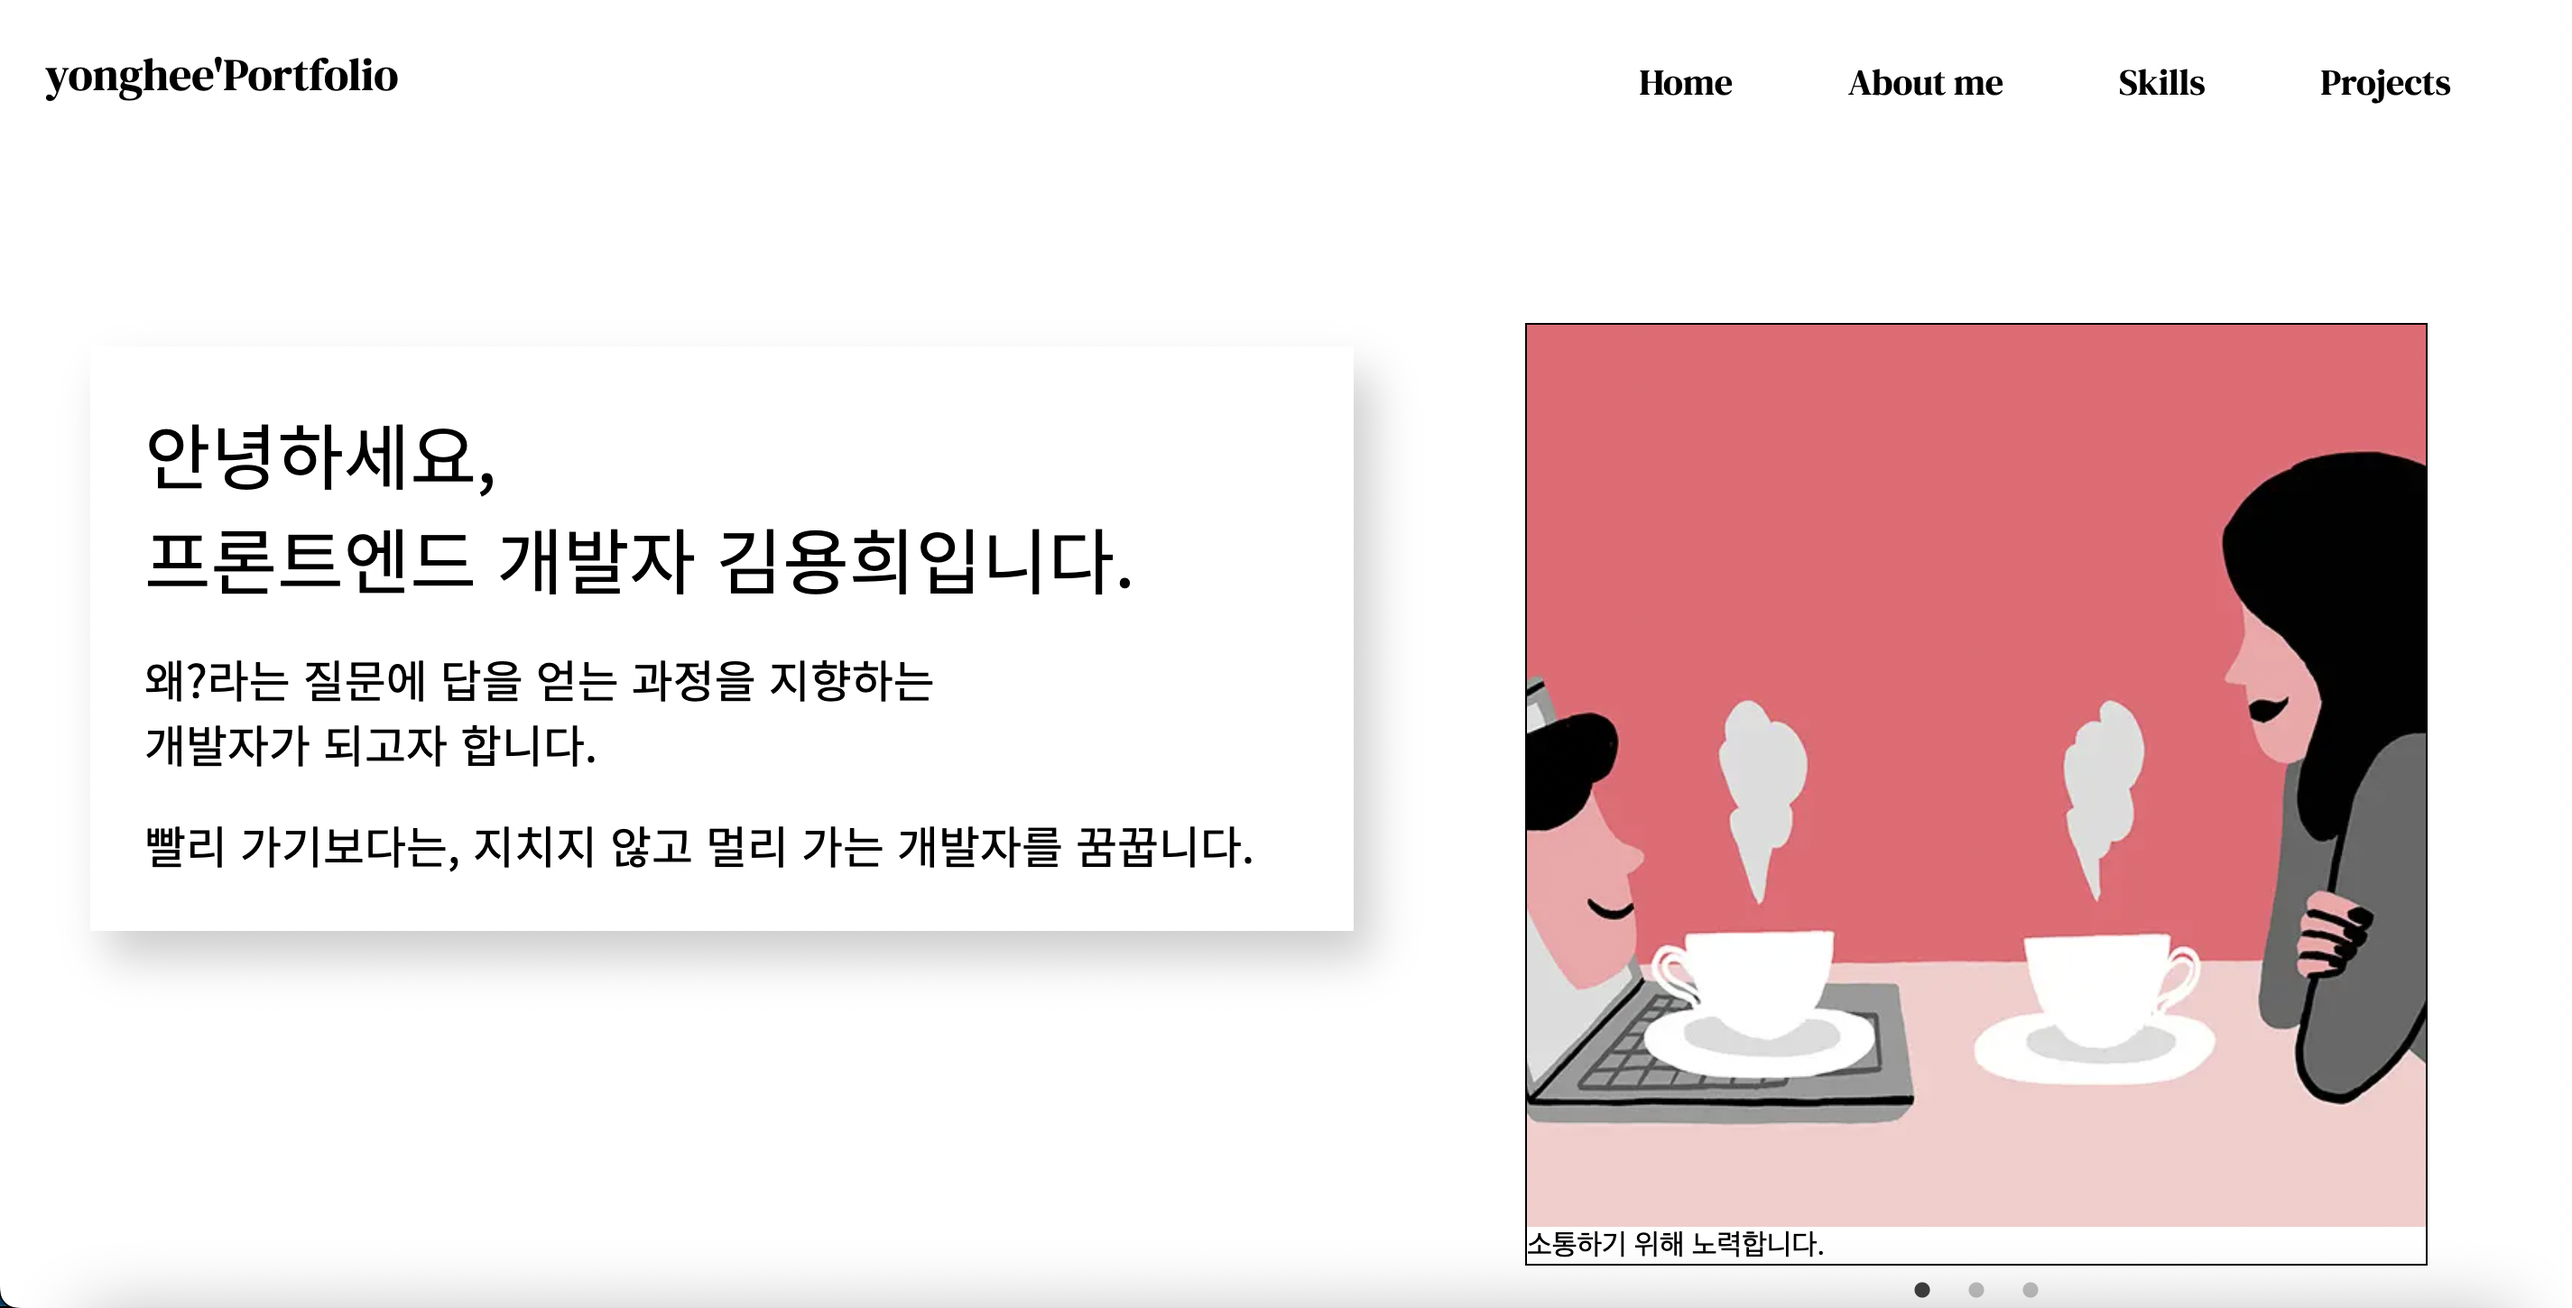
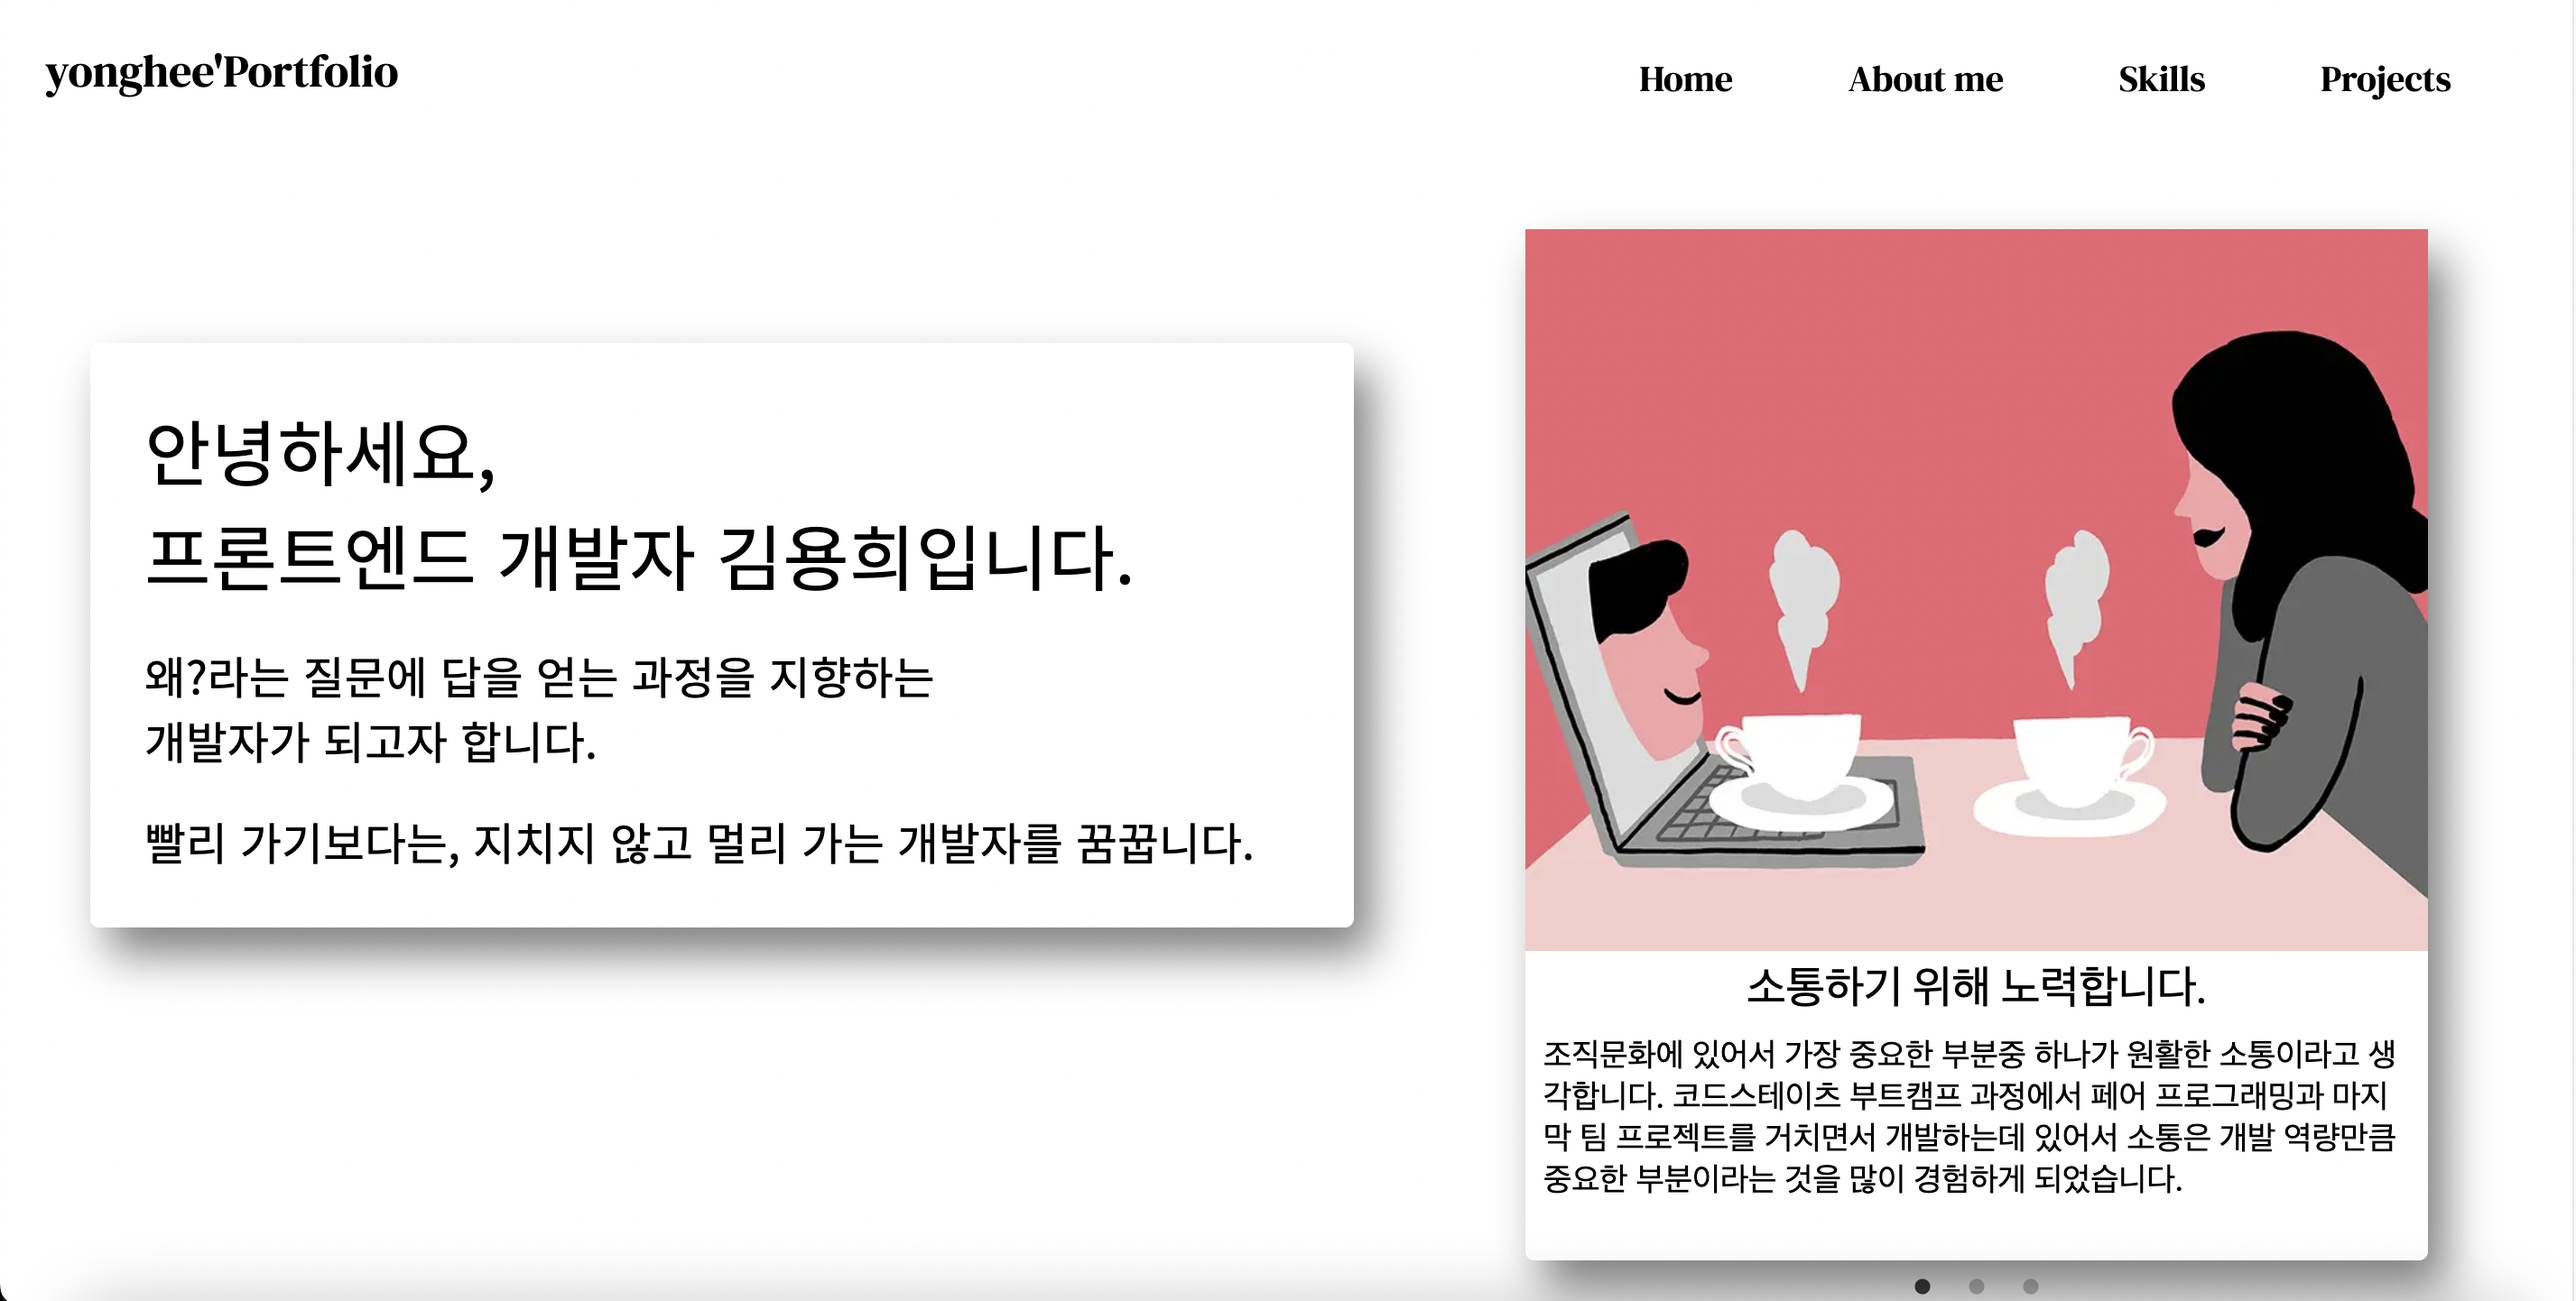
total scss

diff --git a/components/NavBar.module.scss b/components/NavBar.module.scss
@@ -79,7 +79,7 @@
  .sliderBox {     
     position: absolute; 
     right: 0px; 
-    top: 20px;
+    top: 50px;
     width: 500px;
 	  margin: 80px;
     box-shadow: 10px 15px 25px 0 rgba(0,0,0,.5);
@@ -142,7 +142,226 @@
     } 
   }
 }
-
+//----------------------------------------------------------------------------------------------
 @media (max-width: 820px) { 
+  .container {
+    // background-color: #e9e6e4;
+	// display: grid;
+	.background {    
+    // filter: grayscale(100%) contrast(80%);
+    position: relative; 
+    height: 750px;
+    .navBar {
+        font-family: 'DM Serif Display', serif;
+        display: flex;
+        justify-content: space-between;
+        padding: 25px;
+        .navBarLogo {
+            position: relative;
+            z-index: 1;
+            font-size: 25px;            
+        }
+        .navBarMenu {
+            display: flex;
+            position: relative;
+            left: -10px; 
+        .navBarList {
+            z-index: 1;
+            padding: 8px 12px;
+            margin: 0 20px;
+            font-size: 20px;
+            }
+        }       
+    }
+    .navBarProfileBox { 
+        box-shadow: 10px 15px 25px 0 rgba(0,0,0,.5);
+        border-radius: 5px;
+        display: grid;
+        grid-template-columns: auto;
+        width: 700px;
+        max-width: 100%;
+        font-family: 'Noto Sans KR', sans-serif;
+        position: relative;
+        top: 100px;
+        left: 50px;
+        z-index: 1;                 
+        display: grid;
+        padding: 20px;
+        &:hover {
+            background-color: #01579b;
+            transition: all 0.5s cubic-bezier(0.645, 0.045, 0.355, 1);
+            color: white;
+                }
+        
+    .navBarProfileName {   
+        font-size: 40px;
+        margin: 10px;
+            }
+    .navBarProfileIntroOne {
+        font-size: 25px;
+        margin: 10px;
+        &:hover {
+          transition: all 0.5s cubic-bezier(0.645, 0.045, 0.355, 1);
+          color: #000000;
+                }
+      }
+      .navBarProfileIntroTwo {
+        font-size: 25px;
+        margin: 10px;
+        &:hover {
+          transition: all 0.5s cubic-bezier(0.645, 0.045, 0.355, 1);
+          color: #000000;
+                }
+      }      
+    }	
+ }
 
+ .sliderBox {     
+    position: absolute; 
+    right: 0px; 
+    left: 80px;
+    top: 50px;
+    width: 500px;
+	  margin: 80px;
+    box-shadow: 10px 15px 25px 0 rgba(0,0,0,.5);
+    border-radius: 5px;
+	  // border: 2px solid black;
+    .imgOneBox {       
+        .imgOne {
+            position: relative;
+            width: 500px;
+            height: 400px;
+        }
+        .imgOneIntroBox {
+          .imgOneIntroTitle {
+            text-align: center;
+            margin: 5px;
+            font-size: 25px;
+
+          }
+          .imgOneIntro {
+            margin: 10px;
+            font-size: 18px;
+          }
+        }
+    }
+    .imgTwoBox {
+        .imgTwo {
+            position: relative;
+            width: 500px;
+            height: 400px;
+        }
+        .imgTwoIntroBox {
+          .imgTwoIntroTitle {
+            text-align: center;
+            margin: 5px;
+            font-size: 25px;
+          }
+          .imgTwoIntro {
+            margin: 10px;
+            font-size: 18px;
+          }
+        }
+     } 
+     .imgThrBox {
+        .imgThr {
+            position: relative;
+            width: 500px;
+            height: 400px;
+        }
+        .imgThrIntroBox {
+            .imgThrIntroTitle {
+              text-align: center;
+              margin: 5px;
+              font-size: 25px;
+            }
+            .imgThrIntro {
+              margin: 10px;
+              font-size: 18px;
+            }
+        }
+    } 
+  }
+}
+}
+
+//---------------------------------------------------------------------------------
+
+@media (max-width: 390px) {
+  .container {
+    // background-color: #e9e6e4;
+	// display: grid;
+	.background {    
+    // filter: grayscale(100%) contrast(80%);
+    position: relative; 
+    height: 750px;
+    .navBar {
+        font-family: 'DM Serif Display', serif;
+        display: flex;
+        justify-content: space-between;
+        padding: 25px;
+        .navBarLogo {
+            position: relative;
+            z-index: 1;
+            font-size: 25px;            
+        }
+        .navBarMenu {
+            display: flex;
+            position: relative;
+            left: -10px; 
+        .navBarList {
+            z-index: 1;
+            padding: 8px 12px;
+            margin: 0 20px;
+            font-size: 20px;
+            }
+        }       
+    }
+    .navBarProfileBox { 
+        box-shadow: 10px 15px 25px 0 rgba(0,0,0,.5);
+        border-radius: 5px;
+        display: grid;
+        grid-template-columns: auto;
+        width: 700px;
+        max-width: 100%;
+        font-family: 'Noto Sans KR', sans-serif;
+        position: relative;
+        top: 100px;
+        left: 5px;
+        z-index: 1;                 
+        display: grid;
+        padding: 20px;
+        &:hover {
+            background-color: #01579b;
+            transition: all 0.5s cubic-bezier(0.645, 0.045, 0.355, 1);
+            color: white;
+                }
+        
+    .navBarProfileName {   
+        font-size: 40px;
+        margin: 10px;
+            }
+    .navBarProfileIntroOne {
+        font-size: 25px;
+        margin: 10px;
+        &:hover {
+          transition: all 0.5s cubic-bezier(0.645, 0.045, 0.355, 1);
+          color: #000000;
+                }
+      }
+      .navBarProfileIntroTwo {
+        font-size: 25px;
+        margin: 10px;
+        &:hover {
+          transition: all 0.5s cubic-bezier(0.645, 0.045, 0.355, 1);
+          color: #000000;
+                }
+      }      
+    }	
+ }
+
+ .sliderBox {     
+  display: none;  
+}
+}
 }

diff --git a/components/Skills.module.scss b/components/Skills.module.scss
@@ -10,7 +10,6 @@
         position: relative;
         text-align: center;
         // border: 1px solid black;
-        background-color: #e9e6e4;
         font-size: 45px;
         margin: 20px;     
     }
@@ -18,7 +17,6 @@
       font-family: 'Sriracha', cursive;
       position: relative;
       // border: 1px solid black;
-      background-color: #e9e6e4;
       display: grid;   
       grid-template-columns: auto auto;
       justify-content: space-evenly;  

diff --git a/components/About.module.scss b/components/About.module.scss
@@ -7,7 +7,6 @@
 .aboutBox {    
     .aboutTitle {
         font-family: 'Sriracha', cursive;
-        background-color: #e9e6e4;
         // border: 1px solid black;
         text-align: center;
         font-size: 45px;
@@ -15,7 +14,6 @@
     }
     .aboutBoxList{
         font-family: 'Sriracha', cursive;
-        background-color: #e9e6e4;
         margin: 20px;
         display: grid;
         grid-template-columns: auto auto;

diff --git a/components/Project.module.scss b/components/Project.module.scss
@@ -11,7 +11,6 @@
   position: relative;
   text-align: center;
   font-size: 45px;
-  background-color: #e9e6e4;
   margin: 20px;
 }
 .container {   
